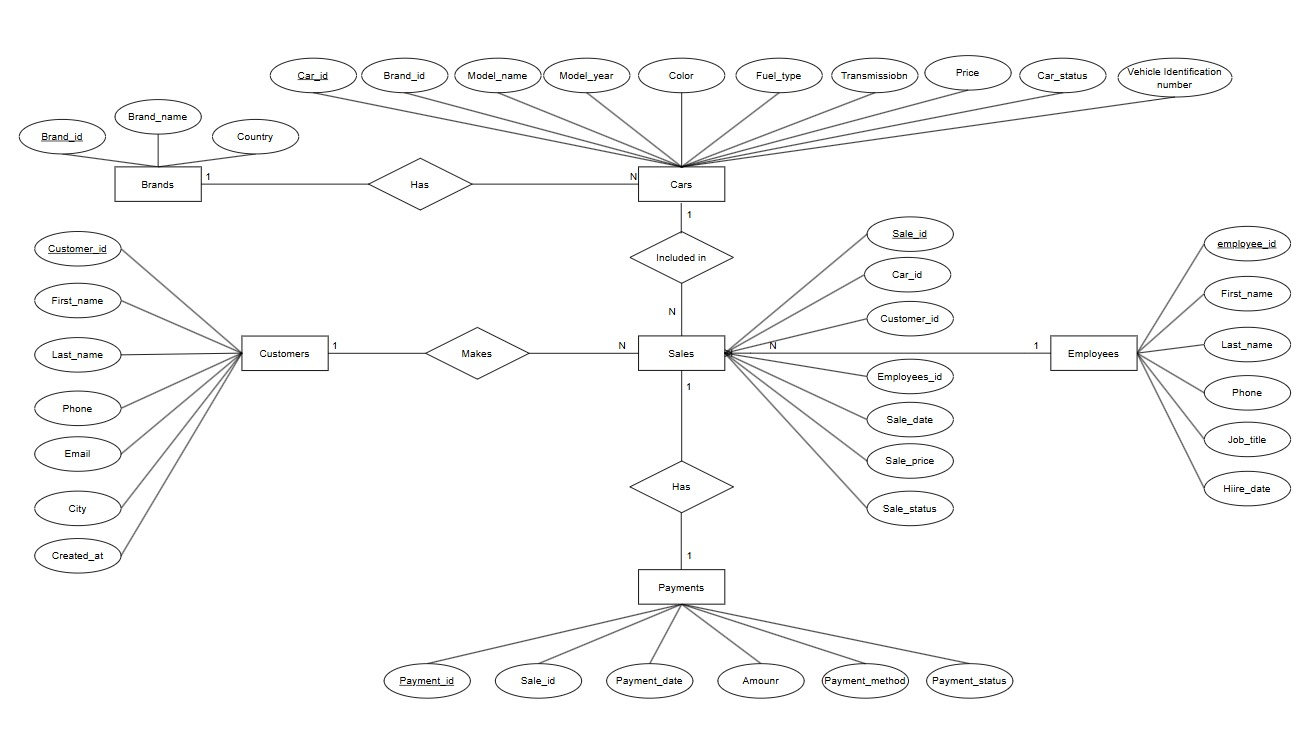
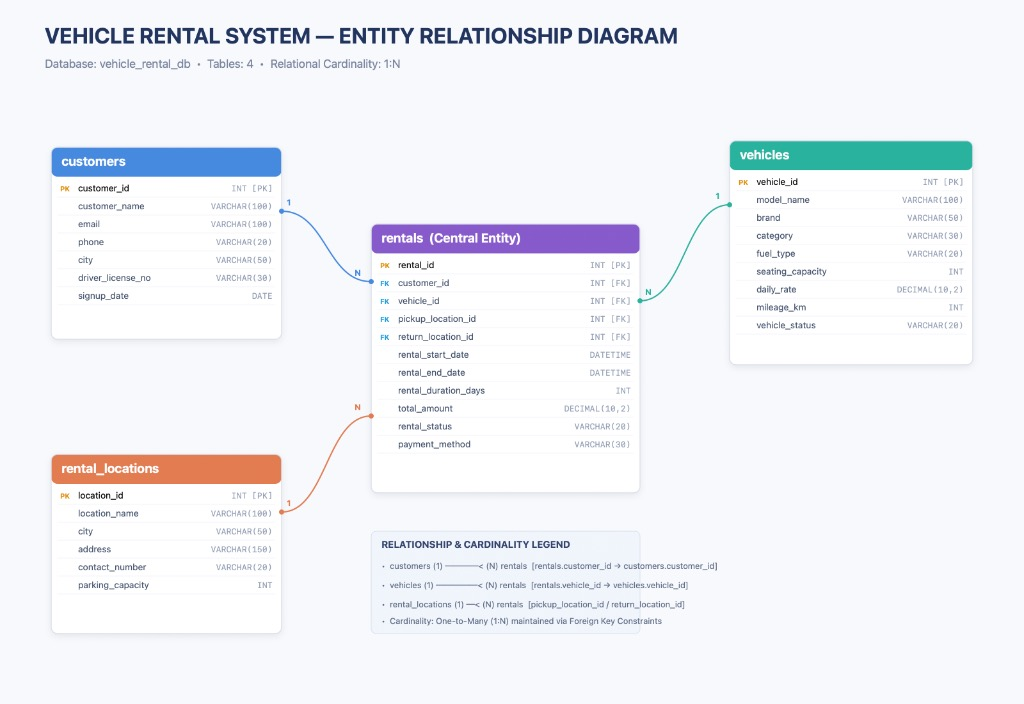
docs: add Peter Chen notation ER-Diagram.png and update READMEs

diff --git a/README.md b/README.md
@@ -64,7 +64,7 @@ The database models four interconnected commercial entities:
 ### 🔗 ER Diagram & Relationships
 
 <p align="center">
-  <img src="Vehicle%20rental%20system/ER-Diagram-original-crowsfoot.jpeg" alt="Entity Relationship Diagram of the Vehicle Rental System" width="100%">
+  <img src="Vehicle%20rental%20system/ER-Diagram.png" alt="Entity Relationship Diagram of the Vehicle Rental System (Chen Notation)" width="100%">
 </p>
 
 #### Entity Relationships & Cardinality:
@@ -270,7 +270,8 @@ You can test and execute all 60 queries instantly on macOS, Linux, or Windows wi
 Vehicle rental system/
 ├── README.md                           # Comprehensive project documentation
 ├── Screen Recording 2026-10-22 235519.mp4 # Full HD project walkthrough & demo video
-├── ER-Diagram-original-crowsfoot.jpeg   # Entity Relationship Diagram
+├── ER-Diagram.png                      # Entity Relationship Diagram (Chen notation)
+├── ER-Diagram-original-crowsfoot.jpeg   # Original Crow's Foot Relational Diagram
 ├── vehicle_rental.sql                  # Master MySQL database dump (30,600 rows)
 ├── vehicle_rental.db                   # Standalone SQLite database for zero-setup execution
 ├── run_project.py                      # Interactive Python query runner

diff --git a/Vehicle rental system/README.md b/Vehicle rental system/README.md
@@ -124,7 +124,7 @@ The database contains four interconnected tables:
 ## 🔗 ER Diagram & Database Relationships
 
 <p align="center">
-  <img src="ER-Diagram-original-crowsfoot.jpeg" alt="Entity Relationship Diagram of the Vehicle Rental System" width="100%">
+  <img src="ER-Diagram.png" alt="Entity Relationship Diagram of the Vehicle Rental System (Chen Notation)" width="100%">
 </p>
 
 ### Cardinality Breakdown:
@@ -208,7 +208,8 @@ Vehicle rental system/
 ├── vehicle_rental.sql                  # Full database dump (DDL, constraints & 30,600 rows)
 ├── vehicle_rental.db                   # Pre-loaded SQLite database for zero-setup execution
 ├── run_project.py                      # Interactive Python query runner
-├── ER-Diagram-original-crowsfoot.jpeg   # High-resolution Entity Relationship Diagram
+├── ER-Diagram.png                      # Entity Relationship Diagram (Chen notation)
+├── ER-Diagram-original-crowsfoot.jpeg   # Original Crow's Foot Relational Diagram
 ├── Database_Restore_Guide.txt          # Step-by-step restoration instructions
 ├── Execution.txt                       # Execution guide & recommended query sequence
 ├── Simple_queries.txt                  # 20 Beginner SQL practice queries
